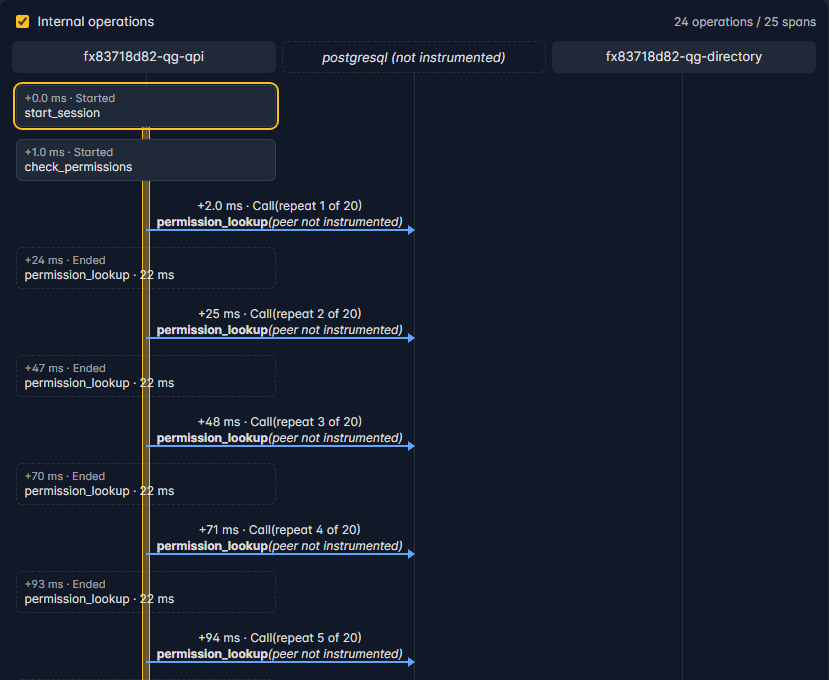
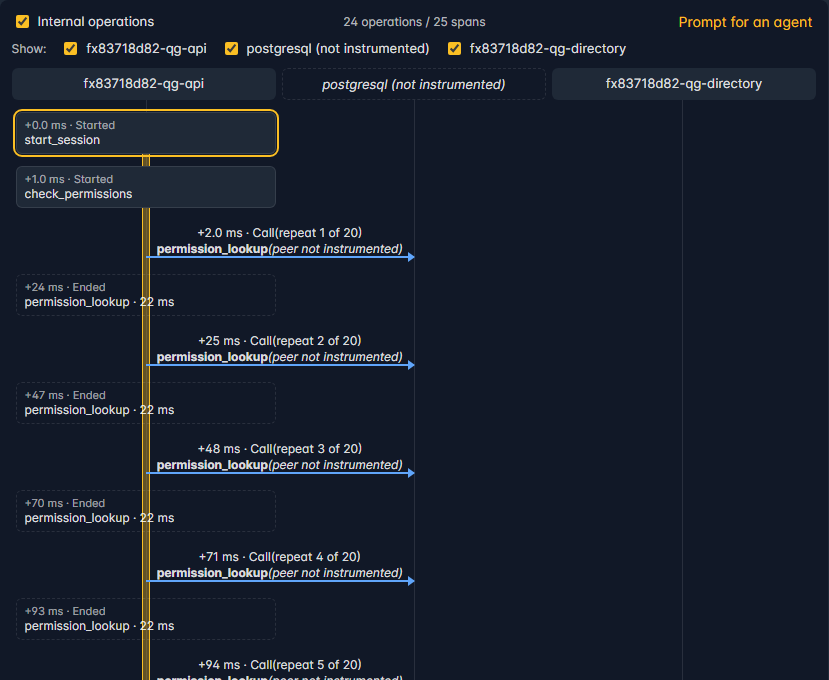
docs(site): Sequence screenshots with the Show row; a shot of hidden PostgreSQL calls (#60)

diff --git a/site/guide/timeline-sequence.md b/site/guide/timeline-sequence.md
@@ -78,6 +78,9 @@ The Sequence view draws services as lanes and calls as arrows. A CLIENT span wit
 
 **Show** lists the participants with a checkbox each. Unticking one hides it with every operation to or from it and the logs of those calls, for example every query to PostgreSQL in an execution that makes hundreds; a note says how many operations are hidden. The report and its exports keep them.
 
+![Sequence with PostgreSQL hidden](/screenshots/exec-sequence-hidden.png)
+*The slow `start_session` with `postgresql` unticked: its 21 queries are hidden, leaving the permission check and the call to the directory service.*
+
 **Prompt for an agent** builds a prompt asking an AI agent to explain the execution from the evidence: what the view shows (after its filters, and saying what was hidden), the failed spans with their status messages and the trace's logs. Copy it into your agent. It contains trace ids, service and span names and log messages, so paste it only where that is allowed. At most 6 lanes and 80 marks fit on a page.
 
 ![Sequence view](/screenshots/exec-sequence.png)
